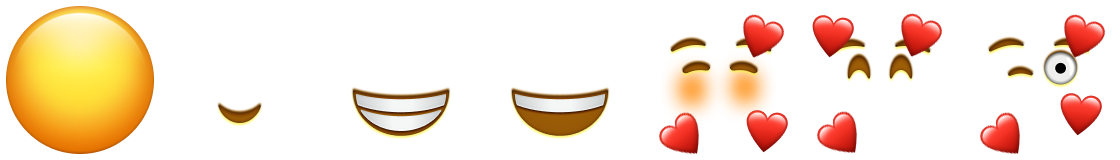
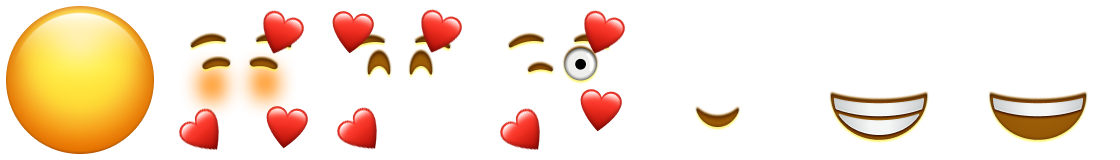
a

diff --git a/index.html b/index.html
@@ -18,7 +18,6 @@
         display: inline-block;
         position: relative;
         background: url('images/emoji-121.png');
-        animation: spin 2s infinite;
       }
       .emoji3 {
         width: 160px;
@@ -26,7 +25,6 @@
         display: inline-block;
         position: relative;
         background: url('images/emoji-122.png');
-        animation: spin 2s infinite;
       }
       .emoji4 {
         width: 160px;
@@ -54,7 +52,6 @@
         background: url('images/emoji-120.png');
         background-position: -640px top;
         animation: blink .5s steps(1) alternate infinite;
-        animation-play-state: paused;
       }
       .emoji-m {
         width: 160px;
@@ -66,7 +63,6 @@
         background: url('images/emoji-120.png');
         background-position: -160px top;
         animation: smile 2s steps(1) alternate infinite;
-        animation-play-state: paused;
       }
       .emoji2-e {
         width: 160px;
@@ -126,7 +122,6 @@
         background: url('images/emoji-123.png');
         background-position: -640px top;
         animation: blink .5s steps(1) alternate infinite;
-        animation-play-state: paused;
       }
       .emoji4-m {
         width: 160px;
@@ -138,7 +133,6 @@
         background: url('images/emoji-123.png');
         background-position: -160px top;
         animation: smile 2s steps(1) alternate infinite;
-        animation-play-state: paused;
       }
       .emoji5-e {
         width: 160px;
@@ -150,7 +144,6 @@
         background: url('images/emoji-124.png');
         background-position: -640px top;
         animation: blink .5s steps(1) alternate infinite;
-        animation-play-state: paused;
       }
       .emoji5-m {
         width: 160px;
@@ -162,7 +155,6 @@
         background: url('images/emoji-124.png');
         background-position: -160px top;
         animation: smile 2s steps(1) alternate infinite;
-        animation-play-state: paused;
       }
       .emoji:hover .emoji-m, .emoji:hover .emoji-e,
       .emoji2:hover .emoji2-m, .emoji2:hover .emoji2-e,
